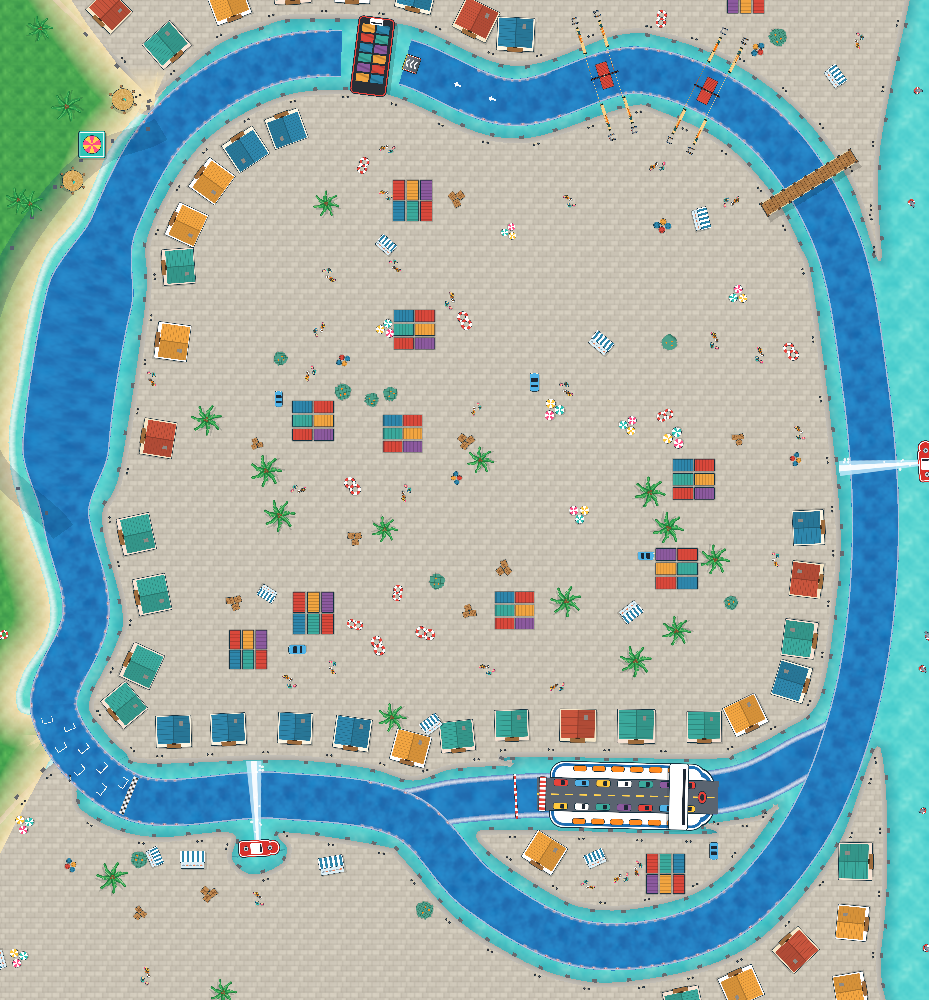
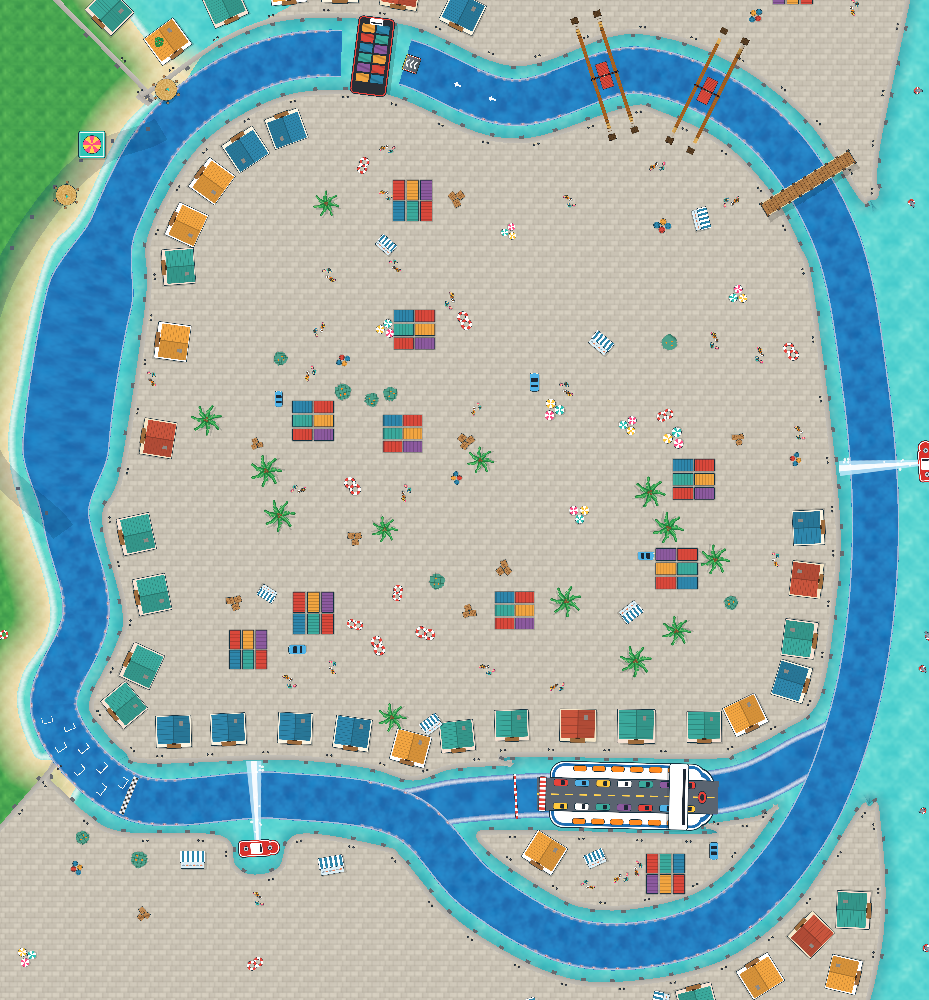
Water Cup: boats that land on land (or stray far off the course) are lifted back onto the channel; the seaplane can be boarded - drive onto its floats while it skims and it flies you over the old town (FLY AWAY! ... TOUCHDOWN!); Harbor Havoc's beach runs on under the quays, which end in a clean wall

diff --git a/Assets/Scripts/Track/TrackHarbour.cs b/Assets/Scripts/Track/TrackHarbour.cs
@@ -495,7 +495,6 @@ namespace SomeGame.Track
 
         Transform _plane;
         SpriteRenderer _planeShadow;
-        int _planeLap = -1;
         float _planeStart = -100f;
         bool _planeBeaten;
         const float PlaneAir = 1.6f, PlaneSkimSpeed = 13f, PlaneLandSpeed = 22f;
@@ -510,14 +509,61 @@ namespace SomeGame.Track
             _planeShadow.gameObject.SetActive(false);
         }
 
+        // Taking a boat for a flight: the one it carries, and once it has set it down, where it flies off from.
+        SomeGame.Car.CarMovement _passenger;
+        Vector2 _flyOffFrom, _flyOffDir;
+        float _flyOffAt = -100f;
+        const float PlaneRideSpeed = 30f;
+
         void UpdatePlane()
         {
             if (_plane == null || _race == null || _race.Player == null) return;
             var s = track.Layout.seaplane;
             var path = track.Path;
             var sensor = _race.Player.GetComponent<TrackSensor>();
+            var car = _race.Player.GetComponent<SomeGame.Car.CarMovement>();
             float pd = sensor.Current.Distance;
             float now = Time.time;
+            float unit = 9f / Mathf.Max(seaplane.bounds.size.x, seaplane.bounds.size.y);
+            var planeRenderer = _plane.GetComponent<SpriteRenderer>();
+
+            // Carrying a boat: it flies with the boat hanging under it, up over the harbour and down to the drop.
+            if (_passenger != null)
+            {
+                if (_passenger.IsAirborne)
+                {
+                    Vector2 at = _passenger.Body.position, heading = _passenger.transform.up;
+                    float h = _passenger.AirHeight;
+                    Show(true);
+                    _plane.position = at + heading * 0.4f + new Vector2(-0.6f, 2.2f) * h;
+                    _plane.rotation = Quaternion.Euler(0f, 0f, Mathf.Atan2(heading.y, heading.x) * Mathf.Rad2Deg);
+                    _plane.localScale = Vector3.one * unit * (1f + 0.35f * h);
+                    planeRenderer.sortingOrder = PlaneOrder;
+                    _planeShadow.transform.position = at + new Vector2(1.2f, -1.6f) * h;
+                    _planeShadow.transform.rotation = _plane.rotation;
+                    _planeShadow.transform.localScale = Vector3.one * unit * 0.9f;
+                    return;
+                }
+                // Set down: it climbs away on its own.
+                _flyOffFrom = _plane.position;
+                _flyOffDir = _passenger.transform.up;
+                _flyOffAt = now;
+                _passenger = null;
+            }
+            if (now - _flyOffAt < 2.5f)
+            {
+                float u = (now - _flyOffAt) / 2.5f;
+                Show(true);
+                _plane.position = _flyOffFrom + _flyOffDir * (PlaneRideSpeed * 2.5f * u) + new Vector2(-0.6f, 2.2f) * u;
+                _plane.localScale = Vector3.one * unit * (1.2f + 0.6f * u);
+                planeRenderer.color = new Color(1f, 1f, 1f, 1f - u * u);
+                _planeShadow.transform.position = _flyOffFrom + _flyOffDir * (PlaneRideSpeed * 2.5f * u) + new Vector2(1.2f, -1.6f) * (1f + u);
+                _planeShadow.color = new Color(0f, 0.12f, 0.2f, 0.35f * (1f - u));
+                return;
+            }
+            planeRenderer.color = Color.white;
+            _planeShadow.color = new Color(0f, 0.12f, 0.2f, 0.35f);
+
             // Each lap, as the player comes up to it, it glides down from behind, lands ahead and skims along.
             float trigger = s.from - 30f;
             if (pd > trigger && pd < s.from && now - _planeStart > 20f)
@@ -527,30 +573,67 @@ namespace SomeGame.Track
             }
             float t = now - _planeStart;
             float skim = Mathf.Repeat(s.to - s.from, path.Length) / PlaneSkimSpeed;
-            bool active = t >= 0f && t < PlaneAir + skim + PlaneAir;
-            _plane.gameObject.SetActive(active);
-            _planeShadow.gameObject.SetActive(active);
+            bool active = t >= 0f && t < PlaneAir + skim + PlaneAir && now - _flyOffAt > 20f;
+            Show(active);
             if (!active) return;
             float d, height;
             if (t < PlaneAir) { d = s.from - PlaneLandSpeed * (PlaneAir - t); height = 1f - t / PlaneAir; }
             else if (t < PlaneAir + skim) { d = s.from + (t - PlaneAir) * PlaneSkimSpeed; height = 0f; }
             else { float u = t - PlaneAir - skim; d = s.to + u * PlaneLandSpeed; height = u / PlaneAir; }
-            Vector2 p = path.PointAt(d) + path.NormalAt(d) * 2.4f, dir = path.TangentAt(d);
+            const float lane = 2.4f;
+            Vector2 p = path.PointAt(d) + path.NormalAt(d) * lane, dir = path.TangentAt(d);
             float angle = Mathf.Atan2(dir.y, dir.x) * Mathf.Rad2Deg; // (its nose points right in the picture)
             _plane.position = p + new Vector2(-0.6f, 2.2f) * height;
             _plane.rotation = Quaternion.Euler(0f, 0f, angle);
-            _plane.localScale = Vector3.one * (9f / Mathf.Max(seaplane.bounds.size.x, seaplane.bounds.size.y)) * (1f + 0.35f * height);
-            _plane.GetComponent<SpriteRenderer>().sortingOrder = height > 0.05f ? PlaneOrder : DuckOrder + 1;
+            _plane.localScale = Vector3.one * unit * (1f + 0.35f * height);
+            planeRenderer.sortingOrder = height > 0.05f ? PlaneOrder : DuckOrder + 1;
             _planeShadow.transform.position = p;
             _planeShadow.transform.rotation = _plane.rotation;
-            _planeShadow.transform.localScale = Vector3.one * (9f / Mathf.Max(seaplane.bounds.size.x, seaplane.bounds.size.y)) * 0.9f;
-            // Overtaken on the water: BEAT THE PLANE!
-            if (!_planeBeaten && height <= 0f && path.DeltaDistance(d, pd) > 3f && path.DeltaDistance(d, pd) < 20f)
+            _planeShadow.transform.localScale = Vector3.one * unit * 0.9f;
+            if (height > 0f || car == null || car.IsAirborne || sensor.Branch >= 0) return;
+            float behind = path.DeltaDistance(d, pd);
+            // Driven onto its floats from behind (in its lane): it takes you for a flight - a shortcut over the harbour.
+            if (s.dropAt >= 0f && behind > -4f && behind < 1.5f && Mathf.Abs(sensor.Current.Lateral - lane) < 2f)
+            {
+                Board(car, path, pd, s.dropAt);
+                return;
+            }
+            // Overtaken on the water (past it in the other lane): BEAT THE PLANE!
+            if (!_planeBeaten && behind > 3f && behind < 20f)
             {
                 _planeBeaten = true;
                 if (_combo != null) _combo.Announce("BEAT THE PLANE!", new Color(1f, 0.82f, 0.25f));
-                _race.Player.GetComponent<SomeGame.Car.CarMovement>()?.GiveBoost(0.7f);
+                car.GiveBoost(0.7f);
             }
+        }
+
+        void Show(bool on)
+        {
+            if (_plane.gameObject.activeSelf != on) _plane.gameObject.SetActive(on);
+            if (_planeShadow.gameObject.activeSelf != on) _planeShadow.gameObject.SetActive(on);
+        }
+
+        void Board(SomeGame.Car.CarMovement car, TrackPath path, float from, float drop)
+        {
+            // Up off the water ahead, straight across to the drop, down onto the channel there facing on.
+            Vector2 start = car.Body.position, end = path.PointAt(drop - 6f);
+            var cable = new List<Vector2>();
+            for (int k = 1; k <= 8; k++) cable.Add(Vector2.Lerp(start + (Vector2)car.transform.up * 8f, end, k / 8f));
+            Vector2 fwd = path.TangentAt(drop);
+            var arrival = new Pose(path.PointAt(drop), Quaternion.Euler(0f, 0f, Mathf.Atan2(fwd.y, fwd.x) * Mathf.Rad2Deg - 90f));
+            float top = car.Stats != null ? car.Stats.topSpeed : 18f;
+            var progress = car.GetComponent<SomeGame.Race.RaceProgress>();
+            bool ok = car.RideLift(cable, arrival, PlaneRideSpeed, top * 1.05f, () =>
+            {
+                if (progress != null) progress.LiftArrived(from, drop);
+                car.GiveBoost(0.6f);
+                if (_combo != null) _combo.Announce("TOUCHDOWN!", new Color(0.4f, 0.9f, 1f));
+            });
+            if (!ok) return;
+            _passenger = car;
+            _planeBeaten = true;
+            if (_combo != null) _combo.Announce("FLY AWAY!", new Color(1f, 0.82f, 0.25f));
+            SomeGame.Audio.GameAudio.Play(SomeGame.Audio.AudioLibrary.Instance?.wallWhoosh, 0.8f);
         }
 
         // ------------------------------------------------------------------ the last lap: sunset

diff --git a/Assets/Scripts/Editor/WaterCupSetup.cs b/Assets/Scripts/Editor/WaterCupSetup.cs
@@ -302,7 +302,7 @@ namespace SomeGame.EditorTools
             // Out at sea beside the long straight the cruise ship steams by; its wake rolls in as swells (WAVE JUMPs).
             t.cruiseShip = new TrackLayout.CruiseShip { enabled = true, from = 150f, to = 255f, lateral = -22f, speed = 6f };
             t.swells = new List<TrackLayout.Swell> { new() { from = 170f, to = 248f, speed = 8f, period = 3.2f } };
-            t.seaplane = new TrackLayout.Seaplane { enabled = true, from = 180f, to = 245f };
+            t.seaplane = new TrackLayout.Seaplane { enabled = true, from = 180f, to = 245f, dropAt = 340f }; // (drive onto its floats: it flies you over the old town)
             // Fireboats spraying across the channel: at the fish market and out on the straight.
             t.fireJets = new List<TrackLayout.FireJet>
             {
@@ -508,9 +508,9 @@ namespace SomeGame.EditorTools
             EASTBANK = new Vector2[] { new(66.6f, -3.2f), new(73.1f, 3.2f), new(79.5f, 9.7f), new(84.7f, 17.4f), new(88.2f, 25.7f), new(90.3f, 34.2f), new(90.9f, 43.4f), new(89.6f, 52.2f), new(87.0f, 60.5f), new(82.3f, 69.2f), new(74.8f, 76.1f), new(68.9f, 80.5f), new(65.8f, 85.4f), new(71.9f, 92.4f), new(74.7f, 90.3f), new(82.4f, 88.3f), new(91.4f, 77.0f), new(98.9f, 65.7f), new(105.2f, 56.0f), new(106.4f, 44.3f), new(104.7f, 31.6f), new(101.8f, 20.7f), new(95.9f, 10.8f), new(89.7f, 0.0f), new(80.8f, -7.4f), new(69.8f, -9.2f) }, NORTHBANK = new Vector2[] { new(85.5f, 141.4f), new(81.2f, 152.5f), new(75.9f, 160.7f), new(69.1f, 167.7f), new(60.4f, 172.8f), new(51.8f, 175.7f), new(42.4f, 177.0f), new(32.3f, 176.0f), new(23.4f, 173.2f), new(13.8f, 169.7f), new(8.6f, 175.9f), new(17.9f, 183.7f), new(28.7f, 187.4f), new(42.3f, 191.3f), new(55.3f, 190.2f), new(66.7f, 186.7f), new(76.9f, 176.6f), new(85.1f, 166.7f), new(93.5f, 157.2f), new(95.0f, 141.1f) }, WESTBANK = new Vector2[] { new(-35.7f, 128.6f), new(-42.4f, 122.4f), new(-49.7f, 115.0f), new(-54.4f, 106.2f), new(-56.9f, 97.5f), new(-58.1f, 88.5f), new(-56.8f, 77.7f), new(-52.9f, 69.5f), new(-50.0f, 63.7f), new(-49.8f, 60.7f), new(-51.7f, 55.5f), new(-56.1f, 48.4f), new(-62.9f, 50.2f), new(-63.4f, 59.2f), new(-60.1f, 61.5f), new(-60.2f, 59.0f), new(-64.9f, 62.2f), new(-67.2f, 73.9f), new(-69.3f, 89.2f), new(-69.8f, 100.7f), new(-65.9f, 111.4f), new(-58.1f, 122.0f), new(-48.2f, 131.1f), new(-38.4f, 134.1f) }, NW = new Vector2[] { new(-62.0f, 150.0f), new(-64.9f, 156.4f), new(-72.0f, 159.0f), new(-79.1f, 156.4f), new(-82.0f, 150.0f), new(-79.1f, 143.6f), new(-72.0f, 141.0f), new(-64.9f, 143.6f) };
 
         static readonly Vector2[] HARBOUR = new Vector2[] { new(0.0f, 0.0f), new(28.0f, 0.0f), new(52.0f, -4.0f), new(66.0f, -18.0f), new(86.0f, -28.0f), new(110.0f, -24.0f), new(126.0f, -8.0f), new(136.0f, 16.0f), new(140.0f, 46.0f), new(138.0f, 78.0f), new(132.0f, 106.0f), new(118.0f, 126.0f), new(96.0f, 136.0f), new(72.0f, 130.0f), new(50.0f, 138.0f), new(28.0f, 138.0f), new(8.0f, 126.0f), new(-4.0f, 104.0f), new(-10.0f, 80.0f), new(-12.0f, 54.0f), new(-8.0f, 34.0f), new(-14.0f, 16.0f) };
-        static readonly Vector2[] SOUTH = new Vector2[] { new(-70.0f, -60.0f), new(-15.9f, 4.6f), new(-9.2f, -2.4f), new(-2.1f, -6.4f), new(6.0f, -7.8f), new(19.3f, -7.0f), new(19.4f, -12.0f), new(23.2f, -14.8f), new(28.5f, -12.9f), new(29.7f, -10.0f), new(29.1f, -6.9f), new(47.7f, -9.5f), new(51.3f, -11.7f), new(60.8f, -22.5f), new(71.0f, -29.4f), new(81.0f, -33.8f), new(92.0f, -35.0f), new(109.1f, -31.7f), new(121.0f, -24.6f), new(133.0f, -9.4f), new(141.0f, 8.9f), new(141.0f, -30.0f), new(128.0f, -75.0f), new(-70.0f, -75.0f) },
-            WEST = new Vector2[] { new(-70.0f, 205.0f), new(-2.0f, 137.0f), new(2.4f, 129.9f), new(-3.5f, 121.4f), new(-9.2f, 109.2f), new(-16.4f, 99.1f), new(-20.8f, 79.0f), new(-22.2f, 61.3f), new(-14.7f, 34.9f), new(-20.0f, 22.6f), new(-20.9f, 16.4f), new(-15.9f, 4.6f), new(-70.0f, -60.0f) },
-            NORTH = new Vector2[] { new(-70.0f, 215.0f), new(150.0f, 215.0f), new(150.0f, 170.0f), new(141.0f, 122.0f), new(141.0f, 100.2f), new(135.2f, 115.1f), new(126.3f, 127.5f), new(114.3f, 136.8f), new(100.8f, 142.1f), new(91.2f, 142.5f), new(72.3f, 136.8f), new(52.5f, 144.4f), new(32.5f, 145.7f), new(24.8f, 144.1f), new(16.3f, 140.5f), new(2.4f, 129.9f), new(-2.0f, 137.0f), new(-70.0f, 205.0f) },
+        static readonly Vector2[] SOUTH = new Vector2[] { new(-70.0f, -60.9f), new(-16.7f, 3.1f), new(-14.6f, 2.8f), new(-8.0f, -3.3f), new(-1.0f, -6.8f), new(17.3f, -7.5f), new(20.0f, -12.9f), new(23.2f, -14.8f), new(28.1f, -13.4f), new(31.7f, -7.2f), new(47.7f, -9.5f), new(51.4f, -11.8f), new(60.0f, -21.9f), new(69.8f, -28.7f), new(79.7f, -33.4f), new(89.1f, -35.0f), new(103.5f, -33.4f), new(115.3f, -28.8f), new(126.4f, -18.9f), new(136.7f, -2.8f), new(138.9f, -2.0f), new(140.9f, -3.7f), new(141.0f, -30.1f), new(128.5f, -73.2f), new(126.9f, -74.9f), new(-67.7f, -75.0f), new(-70.0f, -73.0f) },
+            WEST = new Vector2[] { new(-70.0f, 214.9f), new(3.5f, 141.4f), new(7.6f, 134.8f), new(-1.3f, 125.0f), new(-9.2f, 109.2f), new(-15.8f, 100.3f), new(-21.0f, 77.6f), new(-22.2f, 61.3f), new(-14.7f, 34.9f), new(-20.0f, 22.6f), new(-20.8f, 16.0f), new(-17.6f, 7.3f), new(-11.2f, -0.7f), new(-70.0f, -70.9f) },
+            NORTH = new Vector2[] { new(-70.0f, 212.5f), new(-67.5f, 215.0f), new(148.5f, 214.8f), new(150.0f, 212.5f), new(150.0f, 170.0f), new(141.0f, 122.1f), new(140.8f, 113.1f), new(139.0f, 111.6f), new(136.9f, 112.1f), new(128.3f, 125.3f), new(118.0f, 134.4f), new(108.0f, 139.8f), new(98.2f, 142.5f), new(90.0f, 142.2f), new(72.2f, 136.8f), new(52.5f, 144.4f), new(32.5f, 145.7f), new(18.9f, 141.8f), new(4.2f, 131.8f), new(1.8f, 131.7f), new(-2.0f, 137.0f), new(-69.4f, 204.4f) },
             TOWN = new Vector2[] { new(40.7f, 132.4f), new(50.2f, 131.0f), new(64.0f, 124.9f), new(71.4f, 123.3f), new(78.5f, 124.1f), new(93.6f, 129.2f), new(99.0f, 128.6f), new(111.2f, 122.7f), new(120.4f, 113.3f), new(125.8f, 103.4f), new(128.6f, 94.1f), new(133.3f, 53.8f), new(132.6f, 35.8f), new(129.5f, 18.0f), new(122.6f, 12.1f), new(114.1f, 7.9f), new(108.0f, 6.9f), new(72.0f, 7.2f), new(72.0f, 5.8f), new(60.9f, 5.0f), new(53.3f, 2.8f), new(44.4f, 5.2f), new(28.5f, 6.7f), new(3.6f, 6.0f), new(-0.8f, 8.2f), new(-5.0f, 12.6f), new(-7.4f, 17.6f), new(-2.5f, 28.0f), new(-1.2f, 34.8f), new(-5.0f, 51.7f), new(-1.6f, 61.1f), new(3.2f, 93.0f), new(3.5f, 104.6f), new(9.9f, 117.5f), new(17.4f, 125.3f), new(29.0f, 131.2f) },
             PIER = new Vector2[] { new(65.2f, -7.3f), new(72.0f, -6.4f), new(108.0f, -7.2f), new(108.0f, -5.5f), new(117.6f, -3.9f), new(121.8f, -1.9f), new(116.0f, -10.4f), new(109.9f, -16.2f), new(103.5f, -19.4f), new(93.8f, -21.4f), new(86.2f, -21.2f), new(80.4f, -19.1f), new(69.4f, -12.1f) };
 

diff --git a/Assets/Scripts/Track/TrackLagoon.cs b/Assets/Scripts/Track/TrackLagoon.cs
@@ -204,8 +204,9 @@ namespace SomeGame.Track
         void BuildQuay(TrackLayout.Island island, List<Vector2> shore, int index)
         {
             Mesh("QuayShadow", plain, HaloOrder, Ring(shore, 0f, 2.6f, new Color(0.02f, 0.2f, 0.28f, 0.45f), new Color(0.02f, 0.2f, 0.28f, 0f), 1f));
-            Mesh("QuayFloor", quay != null ? quay : plain, SandOrder, Fill(shore, Color.white, 1f / 4f));
-            Mesh("QuayEdge", plain, JungleOrder, Ring(shore, -0.9f, 0f, new Color(0.55f, 0.52f, 0.47f), new Color(0.42f, 0.4f, 0.36f), 1f));
+            // (over any beach it meets: a beach runs on under the quay's paving, so they join in a clean promenade edge)
+            Mesh("QuayFloor", quay != null ? quay : plain, JungleOrder + 1, Fill(shore, Color.white, 1f / 4f));
+            Mesh("QuayEdge", plain, JungleOrder + 2, Ring(shore, -0.9f, 0f, new Color(0.55f, 0.52f, 0.47f), new Color(0.42f, 0.4f, 0.36f), 1f));
             // Tyre fenders on the wall (dark rounded blocks just over the water).
             var fv = new List<Vector3>(); var fu = new List<Vector2>(); var ft = new List<int>(); var fc = new List<Color32>();
             float walked = 0f;
@@ -220,7 +221,7 @@ namespace SomeGame.Track
                 TrackMeshes.AddQuad(fv, fu, ft, a + n * 0.25f, t * 0.45f, n * 0.3f, Vector2.one);
                 for (int k = 0; k < 4; k++) fc.Add(new Color32(34, 36, 40, 255));
             }
-            Mesh("QuayFenders", plain, JungleOrder + 1, TrackMeshes.Quads("QuayFenders", fv, fu, ft, fc));
+            Mesh("QuayFenders", plain, JungleOrder + 3, TrackMeshes.Quads("QuayFenders", fv, fu, ft, fc));
             if (harbourScenery != null)
             {
                 var random = new System.Random(island.seed * 7919 + index * 104729 + 31);
@@ -378,6 +379,28 @@ namespace SomeGame.Track
         }
 
         readonly List<List<Vector2>> _shores = new();
+        readonly Dictionary<SomeGame.Car.CarMovement, float> _stranded = new();
+
+        // A boat that comes down on land (a jump gone wrong) or ends up far out of the course is lifted back onto the
+        // water, a little before where it left it.
+        void ResetStranded()
+        {
+            foreach (var car in _cars)
+            {
+                if (car == null || car.IsAirborne || car.IsPuppet) continue;
+                var sensor = car.GetComponent<TrackSensor>();
+                if (sensor == null) continue;
+                bool land = OnLand(car.Body.position);
+                bool lost = sensor.Branch < 0 && Mathf.Abs(sensor.Current.Lateral) > track.OffRoadAt(sensor.Current.Distance) + 16f;
+                if (!land && !lost) { _stranded.Remove(car); continue; }
+                if (!_stranded.TryGetValue(car, out float since)) _stranded[car] = since = Time.time;
+                if (Time.time - since < (land ? 0.2f : 1.2f)) continue;
+                _stranded.Remove(car);
+                var pose = track.RespawnBefore(sensor.Current.Distance, 4f);
+                float top = car.Stats != null ? car.Stats.topSpeed : 18f;
+                if (!car.CarryBack(pose, top * 0.45f, fromWater: true)) car.Respawn(pose);
+            }
+        }
 
         bool OnLand(Vector2 p)
         {
@@ -565,6 +588,7 @@ namespace SomeGame.Track
             UpdateDolphins(path, now);
             UpdateSplashes(now);
             UpdateLife(path, now);
+            ResetStranded();
             // Crabs scuttle sideways along the sandbar, stop, scuttle back.
             foreach (var (t, centre, across, range, phase) in _crabs)
             {

diff --git a/Assets/Scripts/Track/TrackLayout.cs b/Assets/Scripts/Track/TrackLayout.cs
@@ -325,6 +325,8 @@ namespace SomeGame.Track
             public bool enabled;
             [Tooltip("Lap distances where it touches down and where it lifts off again.")]
             public float from, to;
+            [Tooltip("Drive onto its floats while it skims along and it flies you here (a lap distance further on): a shortcut through the air. -1 = no rides.")]
+            public float dropAt = -1f;
         }
 
         [Header("Coast at night (Water Cup)")]
